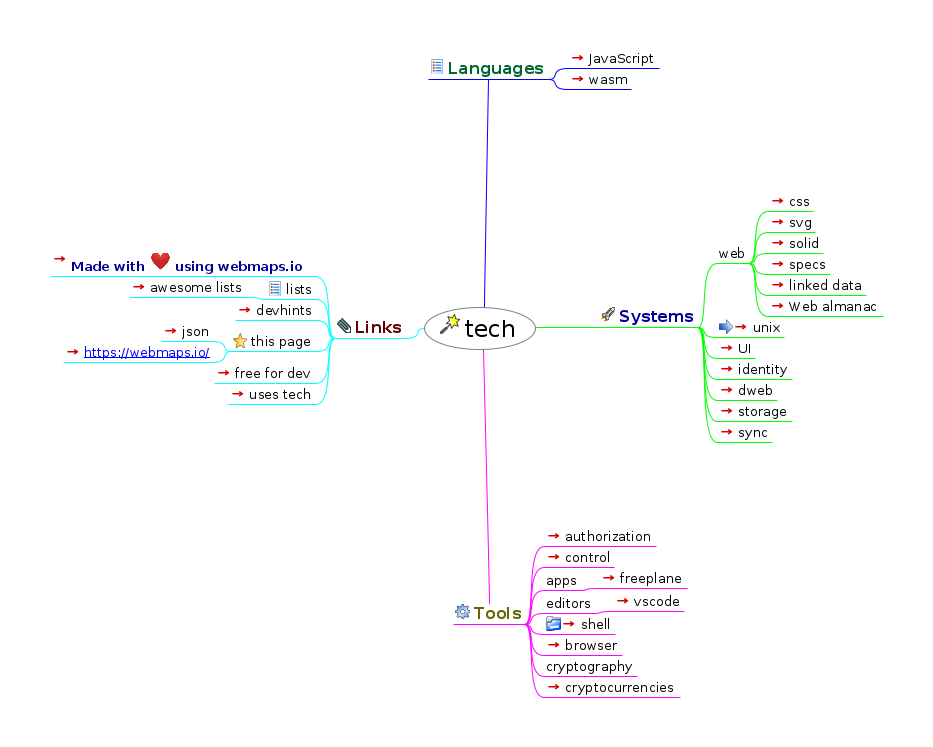
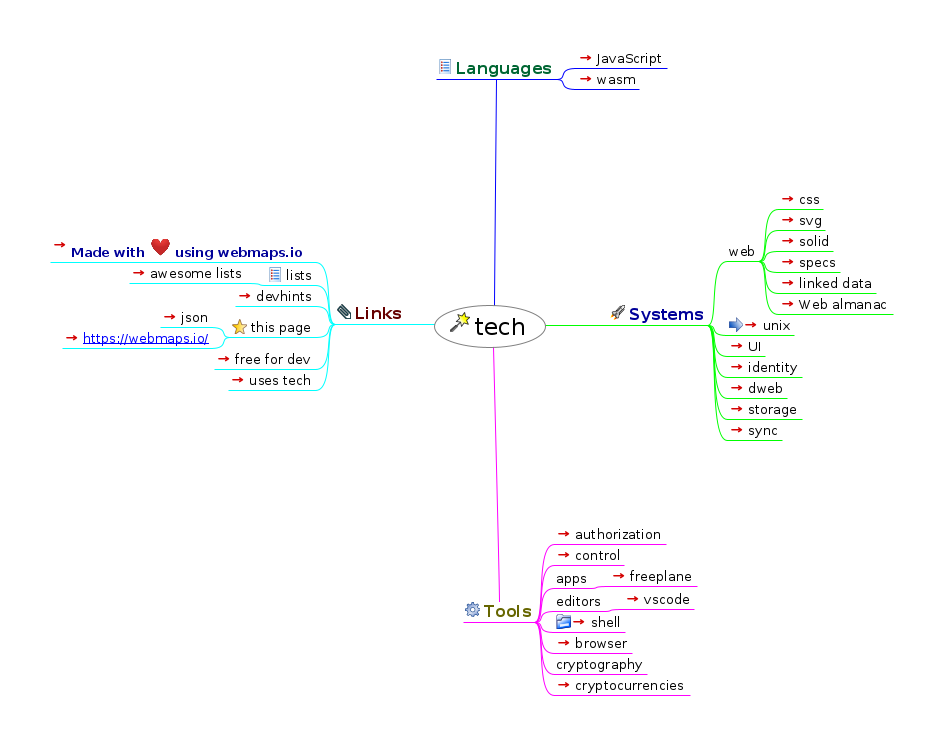
DEFAULT_MESSAGE

Changed region(s): [[0.0622, 0.0617, 0.9636, 0.7409], [0.4662, 0.7101, 0.746, 0.957]]

diff --git a/index.html b/index.html
@@ -23,50 +23,50 @@
                    };
                };
           
-          --></script></head><body><h1>tech</h1><div style="width:96%;  padding:2%;  margin-bottom:10px;  border: 0px;  text-align:center;  vertical-align:center;"><img src="index.html_files/image.png" style="margin-bottom:10px; &#9;border: 0px; &#9;text-align:center; &#9;vertical-align:center;" alt="Imagemap" usemap="#fm_imagemap" /></div><map name="fm_imagemap" id="fm_imagemap"><area shape="rect" href="#FMID_237352286FM" alt="tech" title="tech" coords="424,307,536,350" />
-<area shape="rect" href="#FMID_176155545FM" alt="Languages" title="Languages" coords="428,59,549,79" />
-<area shape="rect" href="../JavaScript/index.html" alt="JavaScript" title="JavaScript" coords="568,50,659,68" />
-<area shape="rect" href="languages/wasm/index.html" alt="wasm" title="wasm" coords="568,71,631,89" />
-<area shape="rect" href="#FMID_527312312FM" alt="Systems" title="Systems" coords="598,307,698,327" />
-<area shape="rect" href="#FMID_532002583FM" alt="web" title="web" coords="717,245,749,263" />
-<area shape="rect" href="css.html" alt="css" title="css" coords="768,193,813,211" />
-<area shape="rect" href="https://www.w3schools.com/graphics/svg_reference.asp" alt="svg" title="svg" coords="768,214,815,232" />
-<area shape="rect" href="../solid/index.html" alt="solid" title="solid" coords="768,235,823,253" />
-<area shape="rect" href="../specs/index.html" alt="specs" title="specs" coords="768,256,830,274" />
-<area shape="rect" href="../linkeddata/index.html" alt="linked data" title="linked data" coords="768,277,866,295" />
-<area shape="rect" href="https://almanac.httparchive.org/en/2019/table-of-contents" alt="Web almanac" title="Web almanac" coords="768,298,883,316" />
-<area shape="rect" href="unix/index.html" alt="unix" title="unix" coords="717,319,784,337" />
-<area shape="rect" href="UI/index.html" alt="UI" title="UI" coords="717,340,755,358" />
-<area shape="rect" href="identity/index.html" alt="identity" title="identity" coords="717,361,792,379" />
-<area shape="rect" href="dweb/index.html" alt="dweb" title="dweb" coords="717,382,777,400" />
-<area shape="rect" href="storage/index.html" alt="storage" title="storage" coords="717,403,792,421" />
-<area shape="rect" href="sync/index.html" alt="sync" title="sync" coords="717,424,772,442" />
-<area shape="rect" href="#FMID_1810859973FM" alt="Tools" title="Tools" coords="453,604,525,624" />
-<area shape="rect" href="authorization/index.html" alt="authorization" title="authorization" coords="544,528,656,546" />
-<area shape="rect" href="control/index.html" alt="control" title="control" coords="544,549,614,567" />
-<area shape="rect" href="#FMID_453742222FM" alt="apps" title="apps" coords="544,572,580,590" />
-<area shape="rect" href="freeplane.html" alt="freeplane" title="freeplane" coords="599,570,687,588" />
-<area shape="rect" href="#FMID_1019017499FM" alt="editors" title="editors" coords="544,595,594,613" />
-<area shape="rect" href="https://code.visualstudio.com/" alt="vscode" title="vscode" coords="613,593,684,611" />
-<area shape="rect" href="shell/index.html" alt="shell" title="shell" coords="544,616,615,634" />
-<area shape="rect" href="browser/index.html" alt="browser" title="browser" coords="544,637,622,655" />
-<area shape="rect" href="#FMID_697718730FM" alt="cryptography" title="cryptography" coords="544,658,637,676" />
-<area shape="rect" href="cryptocurrencies/index.html" alt="cryptocurrencies" title="cryptocurrencies" coords="544,679,680,697" />
-<area shape="rect" href="#FMID_777477932FM" alt="Links" title="Links" coords="335,318,405,338" />
-<area shape="rect" href="https://webmaps.io/" alt="Made with  using webmaps.io" title="Made with  using webmaps.io" coords="50,251,316,276" />
-<area shape="rect" href="#FMID_21985093FM" alt="lists" title="lists" coords="266,281,316,299" />
-<area shape="rect" href="https://getawesomeness.herokuapp.com/get/js" alt="awesome lists" title="awesome lists" coords="129,279,247,297" />
-<area shape="rect" href="https://devhints.io/" alt="devhints" title="devhints" coords="235,302,316,320" />
-<area shape="rect" href="#FMID_117142409FM" alt="this page" title="this page" coords="231,333,316,351" />
-<area shape="rect" href="index.json" alt="json" title="json" coords="161,323,212,341" />
-<area shape="rect" href="https://webmaps.io/" alt="https://webmaps.io/" title="https://webmaps.io/" coords="63,344,212,362" />
-<area shape="rect" href="https://free-for.dev/#/" alt="free for dev" title="free for dev" coords="214,365,316,383" />
-<area shape="rect" href="https://uses.tech/" alt="uses tech" title="uses tech" coords="228,386,316,404" />
+          --></script></head><body><h1>tech</h1><div style="width:96%;  padding:2%;  margin-bottom:10px;  border: 0px;  text-align:center;  vertical-align:center;"><img src="index.html_files/image.png" style="margin-bottom:10px; &#9;border: 0px; &#9;text-align:center; &#9;vertical-align:center;" alt="Imagemap" usemap="#fm_imagemap" /></div><map name="fm_imagemap" id="fm_imagemap"><area shape="rect" href="#FMID_237352286FM" alt="tech" title="tech" coords="434,305,546,348" />
+<area shape="rect" href="#FMID_176155545FM" alt="Languages" title="Languages" coords="436,59,557,79" />
+<area shape="rect" href="../JavaScript/index.html" alt="JavaScript" title="JavaScript" coords="576,50,667,68" />
+<area shape="rect" href="languages/wasm/index.html" alt="wasm" title="wasm" coords="576,71,639,89" />
+<area shape="rect" href="#FMID_527312312FM" alt="Systems" title="Systems" coords="608,305,708,325" />
+<area shape="rect" href="#FMID_532002583FM" alt="web" title="web" coords="727,243,759,261" />
+<area shape="rect" href="css.html" alt="css" title="css" coords="778,191,823,209" />
+<area shape="rect" href="https://www.w3schools.com/graphics/svg_reference.asp" alt="svg" title="svg" coords="778,212,825,230" />
+<area shape="rect" href="../solid/index.html" alt="solid" title="solid" coords="778,233,833,251" />
+<area shape="rect" href="../specs/index.html" alt="specs" title="specs" coords="778,254,840,272" />
+<area shape="rect" href="../linkeddata/index.html" alt="linked data" title="linked data" coords="778,275,876,293" />
+<area shape="rect" href="https://almanac.httparchive.org/en/2019/table-of-contents" alt="Web almanac" title="Web almanac" coords="778,296,893,314" />
+<area shape="rect" href="unix/index.html" alt="unix" title="unix" coords="727,317,794,335" />
+<area shape="rect" href="UI/index.html" alt="UI" title="UI" coords="727,338,765,356" />
+<area shape="rect" href="identity/index.html" alt="identity" title="identity" coords="727,359,802,377" />
+<area shape="rect" href="dweb/index.html" alt="dweb" title="dweb" coords="727,380,787,398" />
+<area shape="rect" href="storage/index.html" alt="storage" title="storage" coords="727,401,802,419" />
+<area shape="rect" href="sync/index.html" alt="sync" title="sync" coords="727,422,782,440" />
+<area shape="rect" href="#FMID_1810859973FM" alt="Tools" title="Tools" coords="463,602,535,622" />
+<area shape="rect" href="authorization/index.html" alt="authorization" title="authorization" coords="554,526,666,544" />
+<area shape="rect" href="control/index.html" alt="control" title="control" coords="554,547,624,565" />
+<area shape="rect" href="#FMID_453742222FM" alt="apps" title="apps" coords="554,570,590,588" />
+<area shape="rect" href="freeplane.html" alt="freeplane" title="freeplane" coords="609,568,697,586" />
+<area shape="rect" href="#FMID_1019017499FM" alt="editors" title="editors" coords="554,593,604,611" />
+<area shape="rect" href="https://code.visualstudio.com/" alt="vscode" title="vscode" coords="623,591,694,609" />
+<area shape="rect" href="shell/index.html" alt="shell" title="shell" coords="554,614,625,632" />
+<area shape="rect" href="browser/index.html" alt="browser" title="browser" coords="554,635,632,653" />
+<area shape="rect" href="#FMID_697718730FM" alt="cryptography" title="cryptography" coords="554,656,647,674" />
+<area shape="rect" href="cryptocurrencies/index.html" alt="cryptocurrencies" title="cryptocurrencies" coords="554,677,690,695" />
+<area shape="rect" href="#FMID_777477932FM" alt="Links" title="Links" coords="335,304,405,324" />
+<area shape="rect" href="https://webmaps.io/" alt="Made with  using webmaps.io" title="Made with  using webmaps.io" coords="50,237,316,262" />
+<area shape="rect" href="#FMID_21985093FM" alt="lists" title="lists" coords="266,267,316,285" />
+<area shape="rect" href="https://getawesomeness.herokuapp.com/get/js" alt="awesome lists" title="awesome lists" coords="129,265,247,283" />
+<area shape="rect" href="https://devhints.io/" alt="devhints" title="devhints" coords="235,288,316,306" />
+<area shape="rect" href="#FMID_117142409FM" alt="this page" title="this page" coords="230,319,316,337" />
+<area shape="rect" href="index.json" alt="json" title="json" coords="160,309,211,327" />
+<area shape="rect" href="https://webmaps.io/" alt="https://webmaps.io/" title="https://webmaps.io/" coords="62,330,211,348" />
+<area shape="rect" href="https://free-for.dev/#/" alt="free for dev" title="free for dev" coords="214,351,316,369" />
+<area shape="rect" href="https://uses.tech/" alt="uses tech" title="uses tech" coords="228,372,316,390" />
 </map>
 
 <div class="node"><img src="index.html_files/hide.png" class="hideshow" alt="hide" onClick="toggle(&quot;N65543&quot;)" id="imgN65543" /><img src="index.html_files/icons/wizard.svg" alt="wizard" /> <a id="FMID_237352286FM" /><div class="nodecontent" style="color:#000000;font-size:150%;">tech</div><div class="content" id="N65543"><div class="node"><img src="index.html_files/hide.png" class="hideshow" alt="hide" onClick="toggle(&quot;N66444&quot;)" id="imgN66444" /><img src="index.html_files/icons/list.svg" alt="list" /> <a id="FMID_176155545FM" /><div class="nodecontent" style="color:#006633;font-size:100%;font-weight:bold;">Languages</div><div class="content" id="N66444"><div class="node"><img src="index.html_files/leaf.png" class="hideshow" alt="leaf" /><a id="FMID_546595456FM" /><div class="nodecontent" style="color:#000000;font-size:83%;"><a href="../JavaScript/index.html">JavaScript</a> <a href="../JavaScript/index.html"><img src="index.html_files/ilink.png" alt="User Link" style="border-width:0" /></a></div></div><div class="node"><img src="index.html_files/leaf.png" class="hideshow" alt="leaf" /><a id="FMID_1992588014FM" /><div class="nodecontent" style="color:#000000;font-size:83%;"><a href="languages/wasm/index.html">wasm</a> <a href="languages/wasm/index.html"><img src="index.html_files/ilink.png" alt="User Link" style="border-width:0" /></a></div></div></div></div><div class="node"><img src="index.html_files/hide.png" class="hideshow" alt="hide" onClick="toggle(&quot;N66562&quot;)" id="imgN66562" /><img src="index.html_files/icons/launch.svg" alt="launch" /> <a id="FMID_527312312FM" /><div class="nodecontent" style="color:#000099;font-size:100%;font-weight:bold;">Systems</div><div class="content" id="N66562"><div class="node"><img src="index.html_files/hide.png" class="hideshow" alt="hide" onClick="toggle(&quot;N66605&quot;)" id="imgN66605" /><a id="FMID_532002583FM" /><div class="nodecontent" style="color:#000000;font-size:83%;">web</div><div class="content" id="N66605"><div class="node"><img src="index.html_files/leaf.png" class="hideshow" alt="leaf" /><a id="FMID_1846113849FM" /><div class="nodecontent" style="color:#000000;font-size:83%;"><a href="css.html">css</a> <a href="css.html"><img src="index.html_files/ilink.png" alt="User Link" style="border-width:0" /></a></div></div><div class="node"><img src="index.html_files/leaf.png" class="hideshow" alt="leaf" /><a id="FMID_428457042FM" /><div class="nodecontent" style="color:#000000;font-size:83%;"><a href="https://www.w3schools.com/graphics/svg_reference.asp">svg</a> <a href="https://www.w3schools.com/graphics/svg_reference.asp"><img src="index.html_files/ilink.png" alt="User Link" style="border-width:0" /></a></div></div><div class="node"><img src="index.html_files/leaf.png" class="hideshow" alt="leaf" /><a id="FMID_1070141955FM" /><div class="nodecontent" style="color:#000000;font-size:83%;"><a href="../solid/index.html">solid</a> <a href="../solid/index.html"><img src="index.html_files/ilink.png" alt="User Link" style="border-width:0" /></a></div></div><div class="node"><img src="index.html_files/leaf.png" class="hideshow" alt="leaf" /><a id="FMID_1682894723FM" /><div class="nodecontent" style="color:#000000;font-size:83%;"><a href="../specs/index.html">specs</a> <a href="../specs/index.html"><img src="index.html_files/ilink.png" alt="User Link" style="border-width:0" /></a></div></div><div class="node"><img src="index.html_files/leaf.png" class="hideshow" alt="leaf" /><a id="FMID_1972132930FM" /><div class="nodecontent" style="color:#000000;font-size:83%;"><a href="../linkeddata/index.html">linked data</a> <a href="../linkeddata/index.html"><img src="index.html_files/ilink.png" alt="User Link" style="border-width:0" /></a></div></div><div class="node"><img src="index.html_files/leaf.png" class="hideshow" alt="leaf" /><a id="FMID_576483331FM" /><div class="nodecontent" style="color:#000000;font-size:83%;"><a href="https://almanac.httparchive.org/en/2019/table-of-contents">Web almanac</a> <a href="https://almanac.httparchive.org/en/2019/table-of-contents"><img src="index.html_files/ilink.png" alt="User Link" style="border-width:0" /></a></div></div></div></div><div class="node"><img src="index.html_files/leaf.png" class="hideshow" alt="leaf" /><img src="index.html_files/icons/forward.svg" alt="forward" /> <a id="FMID_7338816FM" /><div class="nodecontent" style="color:#000000;font-size:83%;"><a href="unix/index.html">unix</a> <a href="unix/index.html"><img src="index.html_files/ilink.png" alt="User Link" style="border-width:0" /></a></div></div><div class="node"><img src="index.html_files/leaf.png" class="hideshow" alt="leaf" /><a id="FMID_1601511624FM" /><div class="nodecontent" style="color:#000000;font-size:83%;"><a href="UI/index.html">UI</a> <a href="UI/index.html"><img src="index.html_files/ilink.png" alt="User Link" style="border-width:0" /></a></div></div><div class="node"><img src="index.html_files/leaf.png" class="hideshow" alt="leaf" /><a id="FMID_879802849FM" /><div class="nodecontent" style="color:#000000;font-size:83%;"><a href="identity/index.html">identity</a> <a href="identity/index.html"><img src="index.html_files/ilink.png" alt="User Link" style="border-width:0" /></a></div></div><div class="node"><img src="index.html_files/leaf.png" class="hideshow" alt="leaf" /><a id="FMID_1672732454FM" /><div class="nodecontent" style="color:#000000;font-size:83%;"><a href="dweb/index.html">dweb</a> <a href="dweb/index.html"><img src="index.html_files/ilink.png" alt="User Link" style="border-width:0" /></a></div></div><div class="node"><img src="index.html_files/leaf.png" class="hideshow" alt="leaf" /><a id="FMID_1360108173FM" /><div class="nodecontent" style="color:#000000;font-size:83%;"><a href="storage/index.html">storage</a> <a href="storage/index.html"><img src="index.html_files/ilink.png" alt="User Link" style="border-width:0" /></a></div></div><div class="node"><img src="index.html_files/leaf.png" class="hideshow" alt="leaf" /><a id="FMID_989569041FM" /><div class="nodecontent" style="color:#000000;font-size:83%;"><a href="sync/index.html">sync</a> <a href="sync/index.html"><img src="index.html_files/ilink.png" alt="User Link" style="border-width:0" /></a></div></div></div></div><div class="node"><img src="index.html_files/hide.png" class="hideshow" alt="hide" onClick="toggle(&quot;N67091&quot;)" id="imgN67091" /><img src="index.html_files/icons/executable.svg" alt="executable" /> <a id="FMID_1810859973FM" /><div class="nodecontent" style="color:#666600;font-size:100%;font-weight:bold;">Tools</div><div class="content" id="N67091"><div class="node"><img src="index.html_files/leaf.png" class="hideshow" alt="leaf" /><a id="FMID_1568925180FM" /><div class="nodecontent" style="color:#000000;font-size:83%;"><a href="authorization/index.html">authorization</a> <a href="authorization/index.html"><img src="index.html_files/ilink.png" alt="User Link" style="border-width:0" /></a></div></div><div class="node"><img src="index.html_files/leaf.png" class="hideshow" alt="leaf" /><a id="FMID_1041005677FM" /><div class="nodecontent" style="color:#000000;font-size:83%;"><a href="control/index.html">control</a> <a href="control/index.html"><img src="index.html_files/ilink.png" alt="User Link" style="border-width:0" /></a></div></div><div class="node"><img src="index.html_files/hide.png" class="hideshow" alt="hide" onClick="toggle(&quot;N67208&quot;)" id="imgN67208" /><a id="FMID_453742222FM" /><div class="nodecontent" style="color:#000000;font-size:83%;">apps</div><div class="content" id="N67208"><div class="node"><img src="index.html_files/leaf.png" class="hideshow" alt="leaf" /><a id="FMID_756649779FM" /><div class="nodecontent" style="color:#000000;font-size:83%;"><a href="freeplane.html">freeplane</a> <a href="freeplane.html"><img src="index.html_files/ilink.png" alt="User Link" style="border-width:0" /></a></div></div></div></div><div class="node"><img src="index.html_files/hide.png" class="hideshow" alt="hide" onClick="toggle(&quot;N67281&quot;)" id="imgN67281" /><a id="FMID_1019017499FM" /><div class="nodecontent" style="color:#000000;font-size:83%;">editors</div><div class="content" id="N67281"><div class="node"><img src="index.html_files/leaf.png" class="hideshow" alt="leaf" /><a id="FMID_847676993FM" /><div class="nodecontent" style="color:#000000;font-size:83%;"><a href="https://code.visualstudio.com/">vscode</a> <a href="https://code.visualstudio.com/"><img src="index.html_files/ilink.png" alt="User Link" style="border-width:0" /></a></div></div></div></div><div class="node"><img src="index.html_files/leaf.png" class="hideshow" alt="leaf" /><img src="index.html_files/icons/folder.svg" alt="folder" /> <a id="FMID_1968717210FM" /><div class="nodecontent" style="color:#000000;font-size:83%;"><a href="shell/index.html">shell</a> <a href="shell/index.html"><img src="index.html_files/ilink.png" alt="User Link" style="border-width:0" /></a></div></div><div class="node"><img src="index.html_files/leaf.png" class="hideshow" alt="leaf" /><a id="FMID_220365950FM" /><div class="nodecontent" style="color:#000000;font-size:83%;"><a href="browser/index.html">browser</a> <a href="browser/index.html"><img src="index.html_files/ilink.png" alt="User Link" style="border-width:0" /></a></div></div><div class="node"><img src="index.html_files/leaf.png" class="hideshow" alt="leaf" /><a id="FMID_697718730FM" /><div class="nodecontent" style="color:#000000;font-size:83%;">cryptography</div></div><div class="node"><img src="index.html_files/leaf.png" class="hideshow" alt="leaf" /><a id="FMID_653198444FM" /><div class="nodecontent" style="color:#000000;font-size:83%;"><a href="cryptocurrencies/index.html">cryptocurrencies</a> <a href="cryptocurrencies/index.html"><img src="index.html_files/ilink.png" alt="User Link" style="border-width:0" /></a></div></div></div></div><div class="node"><img src="index.html_files/hide.png" class="hideshow" alt="hide" onClick="toggle(&quot;N67507&quot;)" id="imgN67507" /><img src="index.html_files/icons/attach.svg" alt="attach" /> <a id="FMID_777477932FM" /><div class="nodecontent" style="color:#660000;font-size:100%;font-weight:bold;">Links</div><div class="content" id="N67507"><div class="node"><img src="index.html_files/leaf.png" class="hideshow" alt="leaf" /><a id="FMID_1974475433FM" /><div class="nodecontent" style="color:#000099;font-size:83%;font-weight:bold;"><a href="https://webmaps.io/">
     Made with <img class="emoji" alt="heart" height="20" width="20" src="https://github.githubassets.com/images/icons/emoji/unicode/2764.png" style="border-top-style: none; border-right-style: none; border-bottom-style: none; border-left-style: none" /> using webmaps.io
-  </a> <a href="https://webmaps.io/"><img src="index.html_files/ilink.png" alt="User Link" style="border-width:0" /></a></div></div><div class="node"><img src="index.html_files/hide.png" class="hideshow" alt="hide" onClick="toggle(&quot;N67605&quot;)" id="imgN67605" /><img src="index.html_files/icons/list.svg" alt="list" /> <a id="FMID_21985093FM" /><div class="nodecontent" style="color:#000000;font-size:83%;">lists</div><div class="content" id="N67605"><div class="node"><img src="index.html_files/leaf.png" class="hideshow" alt="leaf" /><a id="FMID_588856980FM" /><div class="nodecontent" style="color:#000000;font-size:83%;"><a href="https://getawesomeness.herokuapp.com/get/js">awesome lists</a> <a href="https://getawesomeness.herokuapp.com/get/js"><img src="index.html_files/ilink.png" alt="User Link" style="border-width:0" /></a></div></div></div></div><div class="node"><img src="index.html_files/leaf.png" class="hideshow" alt="leaf" /><a id="FMID_1033702527FM" /><div class="nodecontent" style="color:#000000;font-size:83%;"><a href="https://devhints.io/">devhints</a> <a href="https://devhints.io/"><img src="index.html_files/ilink.png" alt="User Link" style="border-width:0" /></a></div></div><div class="node"><img src="index.html_files/hide.png" class="hideshow" alt="hide" onClick="toggle(&quot;N67720&quot;)" id="imgN67720" /><img src="index.html_files/icons/bookmark.svg" alt="bookmark" /> <a id="FMID_117142409FM" /><div class="nodecontent" style="color:#000000;font-size:83%;">this page</div><div class="content" id="N67720"><div class="node"><img src="index.html_files/leaf.png" class="hideshow" alt="leaf" /><a id="FMID_485260235FM" /><div class="nodecontent" style="color:#000000;font-size:83%;"><a href="index.json">json</a> <a href="index.json"><img src="index.html_files/ilink.png" alt="User Link" style="border-width:0" /></a></div></div><div class="node"><img src="index.html_files/leaf.png" class="hideshow" alt="leaf" /><a id="FMID_1630439828FM" /><div class="nodecontent" style="color:#000000;font-size:83%;"><a href="https://webmaps.io/">
+  </a> <a href="https://webmaps.io/"><img src="index.html_files/ilink.png" alt="User Link" style="border-width:0" /></a></div></div><div class="node"><img src="index.html_files/hide.png" class="hideshow" alt="hide" onClick="toggle(&quot;N67607&quot;)" id="imgN67607" /><img src="index.html_files/icons/list.svg" alt="list" /> <a id="FMID_21985093FM" /><div class="nodecontent" style="color:#000000;font-size:83%;">lists</div><div class="content" id="N67607"><div class="node"><img src="index.html_files/leaf.png" class="hideshow" alt="leaf" /><a id="FMID_588856980FM" /><div class="nodecontent" style="color:#000000;font-size:83%;"><a href="https://getawesomeness.herokuapp.com/get/js">awesome lists</a> <a href="https://getawesomeness.herokuapp.com/get/js"><img src="index.html_files/ilink.png" alt="User Link" style="border-width:0" /></a></div></div></div></div><div class="node"><img src="index.html_files/leaf.png" class="hideshow" alt="leaf" /><a id="FMID_1033702527FM" /><div class="nodecontent" style="color:#000000;font-size:83%;"><a href="https://devhints.io/">devhints</a> <a href="https://devhints.io/"><img src="index.html_files/ilink.png" alt="User Link" style="border-width:0" /></a></div></div><div class="node"><img src="index.html_files/hide.png" class="hideshow" alt="hide" onClick="toggle(&quot;N67722&quot;)" id="imgN67722" /><img src="index.html_files/icons/bookmark.svg" alt="bookmark" /> <a id="FMID_117142409FM" /><div class="nodecontent" style="color:#000000;font-size:83%;">this page</div><div class="content" id="N67722"><div class="node"><img src="index.html_files/leaf.png" class="hideshow" alt="leaf" /><a id="FMID_485260235FM" /><div class="nodecontent" style="color:#000000;font-size:83%;"><a href="index.json">json</a> <a href="index.json"><img src="index.html_files/ilink.png" alt="User Link" style="border-width:0" /></a></div></div><div class="node"><img src="index.html_files/leaf.png" class="hideshow" alt="leaf" /><a id="FMID_1630439828FM" /><div class="nodecontent" style="color:#000000;font-size:83%;"><a href="https://webmaps.io/">
     <a http-equiv="content-type" content="text/html; charset=utf-8" href="https://webmaps.io/">https://webmaps.io/</a>
   </a> <a href="https://webmaps.io/"><img src="index.html_files/ilink.png" alt="User Link" style="border-width:0" /></a></div></div></div></div><div class="node"><img src="index.html_files/leaf.png" class="hideshow" alt="leaf" /><a id="FMID_1577207701FM" /><div class="nodecontent" style="color:#000000;font-size:83%;"><a href="https://free-for.dev/#/">free for dev</a> <a href="https://free-for.dev/#/"><img src="index.html_files/ilink.png" alt="User Link" style="border-width:0" /></a></div></div><div class="node"><img src="index.html_files/leaf.png" class="hideshow" alt="leaf" /><a id="FMID_1315399913FM" /><div class="nodecontent" style="color:#000000;font-size:83%;"><a href="https://uses.tech/">uses tech</a> <a href="https://uses.tech/"><img src="index.html_files/ilink.png" alt="User Link" style="border-width:0" /></a></div></div></div></div></div></div>
 </body></html>

diff --git a/index.mm b/index.mm
@@ -1,6 +1,6 @@
 <map version="freeplane 1.7.0">
 <!--To view this file, download free mind mapping software Freeplane from http://freeplane.sourceforge.net -->
-<node TEXT="tech" FOLDED="false" ID="ID_237352286" CREATED="1570576809840" MODIFIED="1580762843237" ICON_SIZE="16.0 pt" STYLE="oval">
+<node TEXT="tech" FOLDED="false" ID="ID_237352286" CREATED="1570576809840" MODIFIED="1584226054336" ICON_SIZE="16.0 pt" STYLE="oval">
 <icon BUILTIN="wizard"/>
 <font SIZE="18"/>
 <hook NAME="MapStyle">
@@ -65,7 +65,7 @@
 </map_styles>
 </hook>
 <hook NAME="AutomaticEdgeColor" COUNTER="16" RULE="ON_BRANCH_CREATION"/>
-<node TEXT="Languages" POSITION="right" ID="ID_176155545" CREATED="1572063754537" MODIFIED="1572064366377" HGAP_QUANTITY="-81.24999716132886 pt" VSHIFT_QUANTITY="-35.99999892711642 pt" COLOR="#006633">
+<node TEXT="Languages" POSITION="right" ID="ID_176155545" CREATED="1572063754537" MODIFIED="1584226054334" HGAP_QUANTITY="-82.74999711662538 pt" VSHIFT_QUANTITY="-34.499998971819906 pt" COLOR="#006633">
 <icon BUILTIN="list"/>
 <font SIZE="12" BOLD="true"/>
 <edge COLOR="#0000ff"/>
@@ -124,7 +124,7 @@
 <edge STYLE="bezier" COLOR="#ff00ff" WIDTH="thin"/>
 </node>
 </node>
-<node TEXT="Links" POSITION="left" ID="ID_777477932" CREATED="1572063875737" MODIFIED="1572064427848" COLOR="#660000">
+<node TEXT="Links" POSITION="left" ID="ID_777477932" CREATED="1572063875737" MODIFIED="1584226035595" COLOR="#660000" HGAP_QUANTITY="21.49999977648259 pt" VSHIFT_QUANTITY="-9.749999709427366 pt">
 <icon BUILTIN="attach"/>
 <font SIZE="12" BOLD="true"/>
 <edge COLOR="#00ffff"/>
